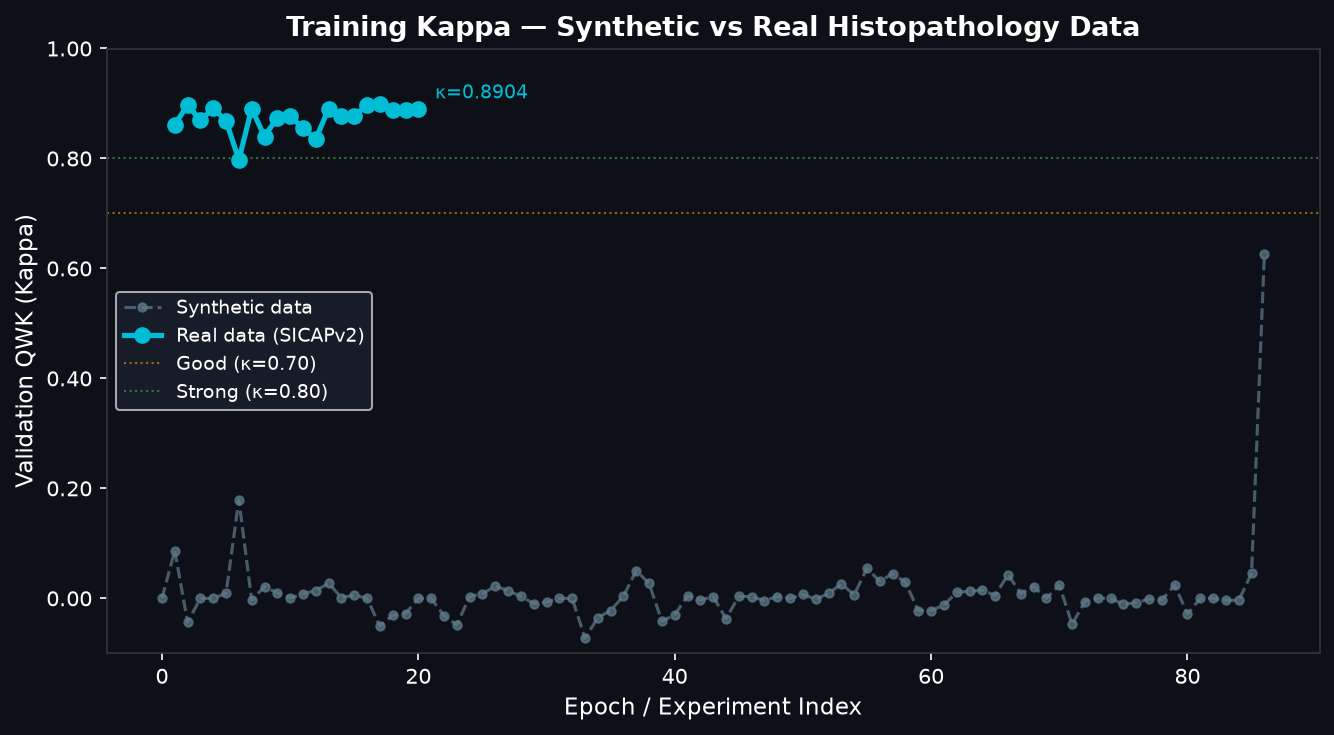
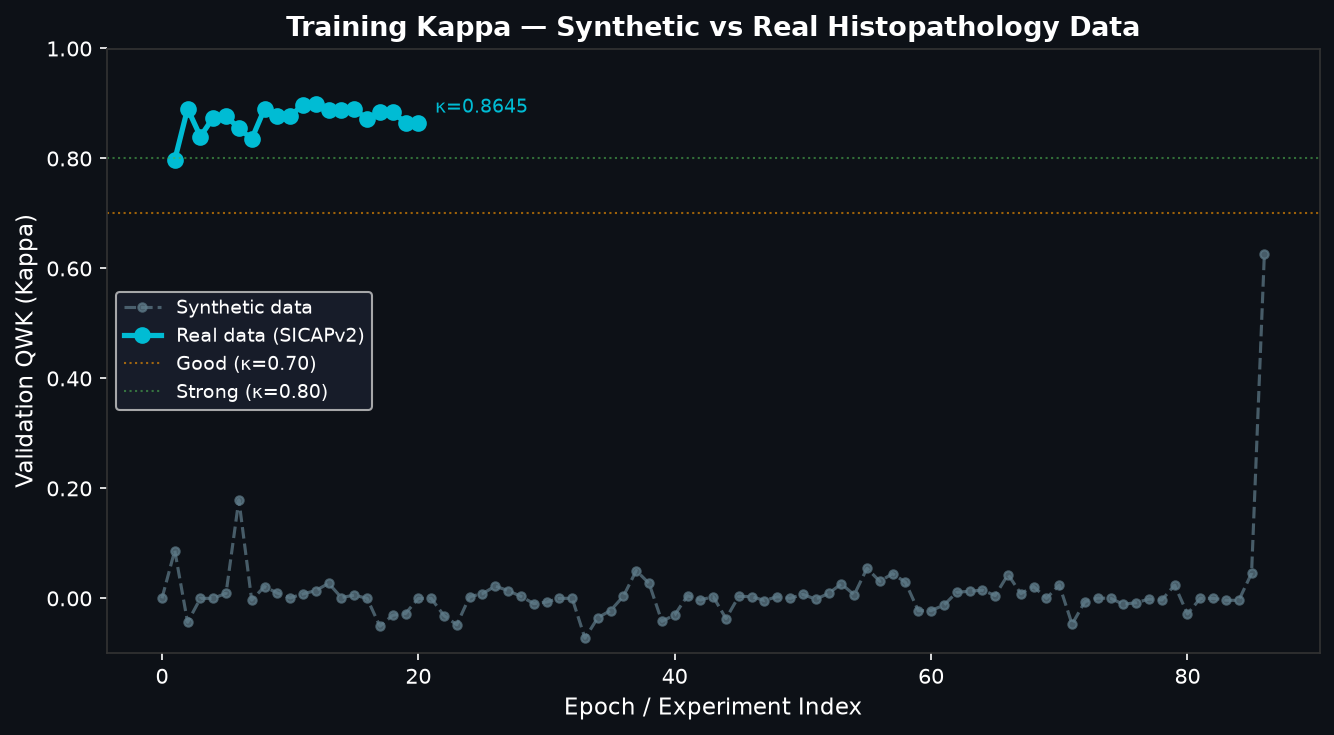
docs(auto): update results & paper after sweep backbone=efficientnet_b0 kappa=[latest]

Changed region(s): [[0.1229, 0.1197, 0.3996, 0.2395]]

diff --git a/docs/RESULTS.md b/docs/RESULTS.md
@@ -1,6 +1,6 @@
 # Prostate CADx — Experiment Results
 
-> Auto-generated: 2026-07-13 05:16 UTC
+> Auto-generated: 2026-07-13 06:02 UTC
 
 ## Summary (Best Real-Data Run)
 
@@ -513,6 +513,11 @@
 | 490 | 2026-07-13 05:01:17 | Real (SICAPv2) | 8 | 32 | 0.8876 | 0.5601 |
 | 491 | 2026-07-13 05:08:34 | Real (SICAPv2) | 9 | 32 | 0.8873 | 0.5597 |
 | 492 | 2026-07-13 05:15:57 | Real (SICAPv2) | 10 | 32 | 0.8904 | 0.6079 |
+| 493 | 2026-07-13 05:35:37 | Real (SICAPv2) | 1 | 32 | 0.8713 | 0.4183 |
+| 494 | 2026-07-13 05:42:31 | Real (SICAPv2) | 2 | 32 | 0.8851 | 0.4741 |
+| 495 | 2026-07-13 05:49:25 | Real (SICAPv2) | 3 | 32 | 0.8845 | 0.4875 |
+| 496 | 2026-07-13 05:56:01 | Real (SICAPv2) | 4 | 32 | 0.8647 | 0.6065 |
+| 497 | 2026-07-13 06:02:29 | Real (SICAPv2) | 5 | 32 | 0.8645 | 0.5967 |
 
 ---
 
@@ -521,8 +526,8 @@
 | Metric | Synthetic (Fallback) | Real (SICAPv2) |
 |--------|---------------------|----------------|
 | Best Val Kappa | 0.6269 | **0.9234** |
-| Mean Val Kappa | 0.0103 | 0.8474 |
-| N Experiments | 87 | 405 |
+| Mean Val Kappa | 0.0103 | 0.8477 |
+| N Experiments | 87 | 410 |
 
 ---
 